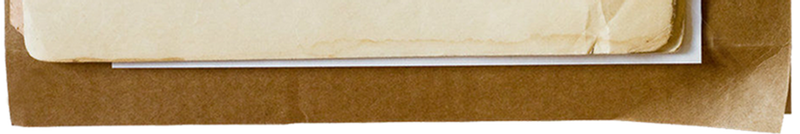
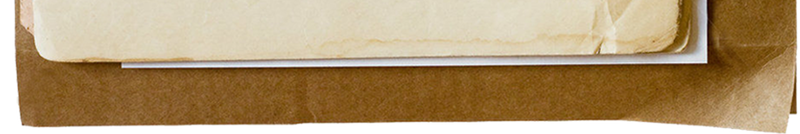
Various style fixes

diff --git a/app/assets/stylesheets/shared.scss b/app/assets/stylesheets/shared.scss
@@ -89,11 +89,10 @@ section.main, .redactor-box {
    * adding in this transparent border shows.
    */
 
-  border: 1px solid transparent;
+  border-bottom: 1px solid transparent;
+  margin-bottom: -1px;
 
-  /* Given the above hack, the background position needs to be adjusted */
-
-  background: url( 'clipboard_tile_slice.png' ) 0px -1px repeat-y;
+  background: url( 'clipboard_mid_slice.png' ) 0 0 no-repeat;
   background-size: 800px 100%;
 
   nav, section.content, .redactor-editor {
@@ -156,7 +155,7 @@ section.footer {
 
 @media only screen and (max-width: 720px) {
 
-  section.header, section.main, section.footer {
+  section.header, section.main, section.footer, .redactor-editor {
     width: 400px;
   }
 
@@ -173,21 +172,21 @@ section.footer {
 
     nav {
       top: 45px;
-      right: 70px;
+      right: 80px;
 
       a {
         display: inline-block;
-        padding-left: 20px;
+        padding-left: 10px;
         color: #332d18;
-        font-size: 1.25em;
+        font-size: 1.8em;
       }
     }
   }
 
-  section.main {
-    background-size: 100%;
+  section.main, .redactor-box {
+    background-size: 400px 100%;
 
-    nav, section.content {
+    nav, section.content, .redactor-editor {
       width: 305px;
       padding: 0 25px 0 15px;
     }
@@ -205,5 +204,10 @@ section.footer {
   section.footer {
     height: 67px;
     background-size: 100%;
+
+    section.footer_content {
+      width: 305px;
+      padding: 0 25px 0 15px;
+    }
   }
 }
